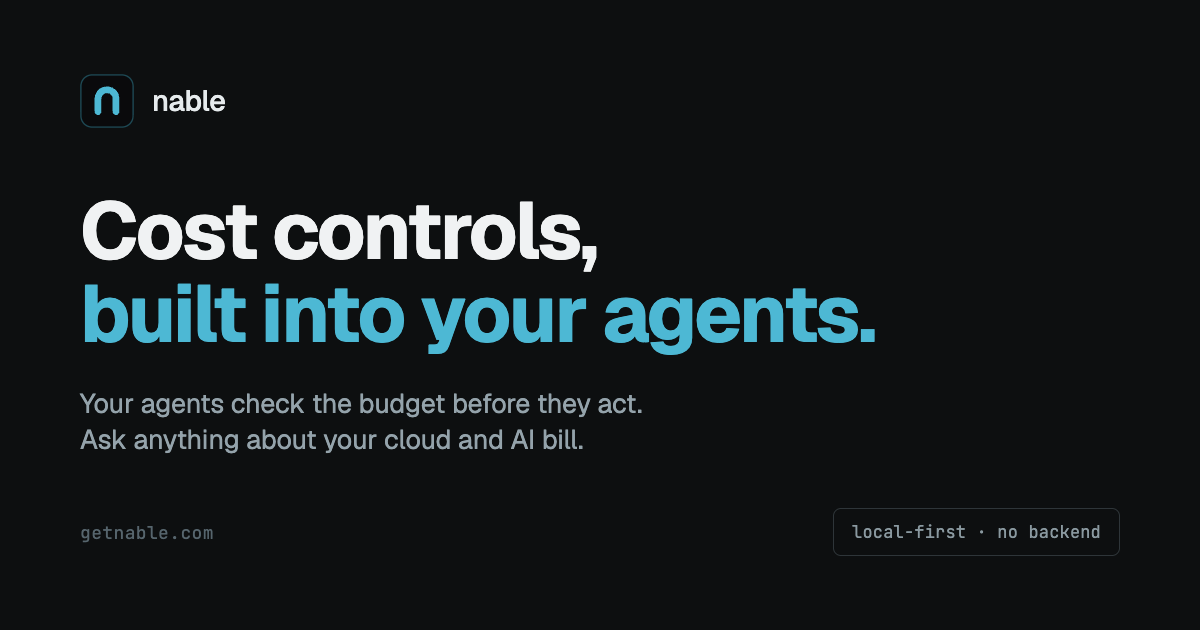
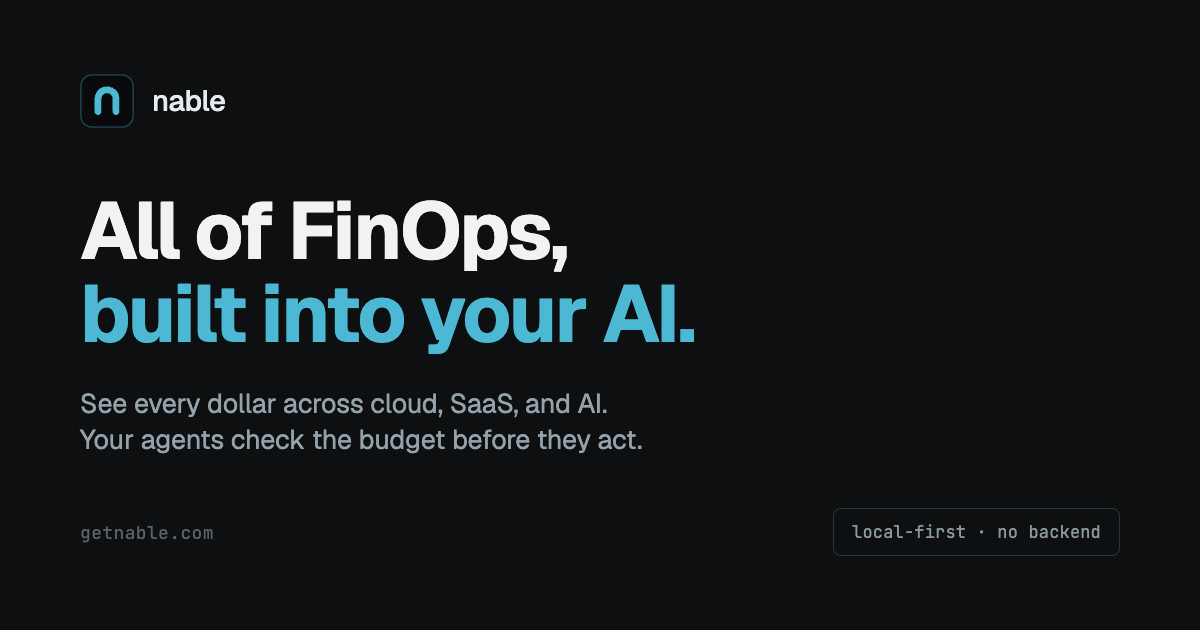
feat(web): hero -> "All of FinOps, built into your AI"
New positioning: lead with the completeness claim grounded by the AI-native
differentiator, with the agent gate and the breadth in the subhead.

  H1: All of FinOps, built into your AI.
  Sub: See every dollar across cloud, SaaS, and AI, cut the waste, and check what
       your agents spend before they act, without leaving Claude or Cursor.

Aligned the meta title/OG/Twitter/schema tagline and re-rendered the social card
to match (og:image -> ?v=4 to bust scraper caches). Verified live: hero centered,
no overflow.

Changed region(s): [[0.0617, 0.3016, 0.5242, 0.4524], [0.0617, 0.6032, 0.555, 0.7238], [0.4933, 0.4524, 0.74, 0.573]]

diff --git a/web/index.html b/web/index.html
@@ -3,21 +3,21 @@
 <head>
 <meta charset="utf-8" />
 <meta name="viewport" content="width=device-width,initial-scale=1" />
-<title>nable · Cost controls, built into your agents</title>
+<title>nable · All of FinOps, built into your AI</title>
 <link rel="canonical" href="https://getnable.com/" />
 <meta name="description" content="nable builds cost intelligence into the AI you already use. Your agents in Claude and Cursor know what things cost, check the budget before they act, and propose the cheaper path. One connector to AWS, Azure, GCP, OpenAI, Anthropic, Bedrock and 10+ more." />
-<meta property="og:title" content="nable · Cost controls, built into your agents" />
+<meta property="og:title" content="nable · All of FinOps, built into your AI" />
 <meta property="og:description" content="nable builds cost intelligence into the AI you already use. Your agents know what things cost, check the budget before they act, and propose the cheaper path. Not a dashboard you check after. Built in." />
 <meta property="og:url" content="https://getnable.com" />
 <meta property="og:type" content="website" />
 <meta property="og:site_name" content="nable" />
-<meta property="og:image" content="https://getnable.com/og.png?v=3" />
+<meta property="og:image" content="https://getnable.com/og.png?v=4" />
 <meta property="og:image:width" content="1200" />
 <meta property="og:image:height" content="630" />
-<meta property="og:image:alt" content="nable: cost controls built into your agents" />
+<meta property="og:image:alt" content="nable: all of FinOps, built into your AI" />
 <meta name="twitter:card" content="summary_large_image" />
-<meta name="twitter:image" content="https://getnable.com/og.png?v=3" />
-<meta name="twitter:title" content="nable · Cost controls, built into your agents" />
+<meta name="twitter:image" content="https://getnable.com/og.png?v=4" />
+<meta name="twitter:title" content="nable · All of FinOps, built into your AI" />
 <meta name="twitter:description" content="nable builds cost intelligence into the AI you already use. Your agents know what things cost, check the budget before they act, and propose the cheaper path. Not a dashboard you check after. Built in." />
 <link rel="icon" type="image/svg+xml" href="favicon.svg" />
 
@@ -31,7 +31,7 @@
       "@id": "https://getnable.com/#org",
       "name": "nable",
       "url": "https://getnable.com",
-      "logo": "https://getnable.com/og.png?v=3",
+      "logo": "https://getnable.com/og.png?v=4",
       "sameAs": ["https://www.linkedin.com/company/getnable/"]
     },
     {
@@ -41,7 +41,7 @@
       "operatingSystem": "macOS, Windows, Linux",
       "url": "https://getnable.com",
       "publisher": { "@id": "https://getnable.com/#org" },
-      "description": "Cost controls, built into your agents. nable makes Claude, Cursor and your AI agents cost-aware: ask about your whole cloud and AI bill, gate agent actions against your budget before they run, and get fixes as pull requests a human approves. One connector to AWS, Azure, GCP and 15 more SaaS and AI providers.",
+      "description": "All of FinOps, built into your AI. nable makes Claude, Cursor and your AI agents cost-aware: ask about your whole cloud and AI bill, gate agent actions against your budget before they run, and get fixes as pull requests a human approves. One connector to AWS, Azure, GCP and 15 more SaaS and AI providers.",
       "offers": [
         { "@type": "Offer", "name": "Dev", "price": "0", "priceCurrency": "USD", "description": "Solo, local, bring your own LLM key. Cost queries, anomaly detection, rightsizing, LLM spend tracking, every connector. No credit card, no expiry." },
         { "@type": "Offer", "name": "Pro", "price": "100", "priceCurrency": "USD", "description": "$100 per month flat for your whole team, not per seat. Local, bring your own LLM key. Adds Terraform remediation PRs, ticket creation, Slack and Teams alerts, digests, budgets, commitment recommendations, the conversational Slack bot, and root cause analysis with chat remediation. $1,000 per year billed annually. Managed single-tenant hosting plus an AI agent is an optional add-on; contact us for a demo." },

diff --git a/web/app.jsx b/web/app.jsx
@@ -183,9 +183,9 @@ function Hero(){
       <div className="wrap">
         <div className="hero-c">
           <h1 className="display">
-            Every cloud and AI bill, <span className="h1-ask">one question away.</span>
+            All of FinOps, <span className="h1-ask">built into your AI.</span>
           </h1>
-          <p className="hero-sub">nable normalizes AWS, Snowflake, Datadog, and your OpenAI tokens into one bill, then answers anything you ask, right inside Claude or Cursor.</p>
+          <p className="hero-sub">See every dollar across cloud, SaaS, and AI, cut the waste, and check what your agents spend before they act, without leaving Claude or Cursor.</p>
           <div className="hero-actions">
             <CopyCmd cmd="uvx nable" />
             <a className="btn btn-primary" href="/docs.html" onClick={() => { if(window.posthog) posthog.capture('cta_clicked', { location:'hero', cta:'start_free' }); }}>

diff --git a/web/marketing/og-card.html b/web/marketing/og-card.html
@@ -30,8 +30,8 @@
 <div class="card">
   <div class="brand"><div class="logo"><svg viewBox="0 0 120 120"><rect x="2" y="2" width="116" height="116" rx="25" fill="#0a0a0c" stroke="#2c7d91" stroke-opacity=".55" stroke-width="3"/><path d="M40 84 L40 55 A20 20 0 0 1 80 55 L80 84" fill="none" stroke="#4db8d4" stroke-width="15" stroke-linecap="round" stroke-linejoin="round"/></svg></div><div class="wm">nable</div></div>
   <div class="mid">
-    <h1>Cost controls,<br/><span class="accent">built into your agents.</span></h1>
-    <p class="sub">Your agents check the budget before they act.<br/>Ask anything about your cloud and AI bill.</p>
+    <h1>All of FinOps,<br/><span class="accent">built into your AI.</span></h1>
+    <p class="sub">See every dollar across cloud, SaaS, and AI.<br/>Your agents check the budget before they act.</p>
   </div>
   <div class="foot">
     <span class="url">getnable.com</span>

diff --git a/web/app.js b/web/app.js
@@ -178,7 +178,7 @@ function Nav() {
   ))));
 }
 function Hero() {
-  return /* @__PURE__ */ React.createElement("header", { className: "hero hero-centered", id: "top" }, /* @__PURE__ */ React.createElement("div", { className: "hero-grid", "aria-hidden": "true" }), /* @__PURE__ */ React.createElement("div", { className: "wrap" }, /* @__PURE__ */ React.createElement("div", { className: "hero-c" }, /* @__PURE__ */ React.createElement("h1", { className: "display" }, "Every cloud and AI bill, ", /* @__PURE__ */ React.createElement("span", { className: "h1-ask" }, "one question away.")), /* @__PURE__ */ React.createElement("p", { className: "hero-sub" }, "nable normalizes AWS, Snowflake, Datadog, and your OpenAI tokens into one bill, then answers anything you ask, right inside Claude or Cursor."), /* @__PURE__ */ React.createElement("div", { className: "hero-actions" }, /* @__PURE__ */ React.createElement(CopyCmd, { cmd: "uvx nable" }), /* @__PURE__ */ React.createElement("a", { className: "btn btn-primary", href: "/docs.html", onClick: () => {
+  return /* @__PURE__ */ React.createElement("header", { className: "hero hero-centered", id: "top" }, /* @__PURE__ */ React.createElement("div", { className: "hero-grid", "aria-hidden": "true" }), /* @__PURE__ */ React.createElement("div", { className: "wrap" }, /* @__PURE__ */ React.createElement("div", { className: "hero-c" }, /* @__PURE__ */ React.createElement("h1", { className: "display" }, "All of FinOps, ", /* @__PURE__ */ React.createElement("span", { className: "h1-ask" }, "built into your AI.")), /* @__PURE__ */ React.createElement("p", { className: "hero-sub" }, "See every dollar across cloud, SaaS, and AI, cut the waste, and check what your agents spend before they act, without leaving Claude or Cursor."), /* @__PURE__ */ React.createElement("div", { className: "hero-actions" }, /* @__PURE__ */ React.createElement(CopyCmd, { cmd: "uvx nable" }), /* @__PURE__ */ React.createElement("a", { className: "btn btn-primary", href: "/docs.html", onClick: () => {
     if (window.posthog) posthog.capture("cta_clicked", { location: "hero", cta: "start_free" });
   } }, "Get started free ", /* @__PURE__ */ React.createElement("span", { className: "arr" }, "\u2192"))), /* @__PURE__ */ React.createElement("p", { className: "hero-trustline" }, /* @__PURE__ */ React.createElement("b", null, "18 providers"), " normalized into one \xB7 works in any editor \xB7 free for solo use"))));
 }